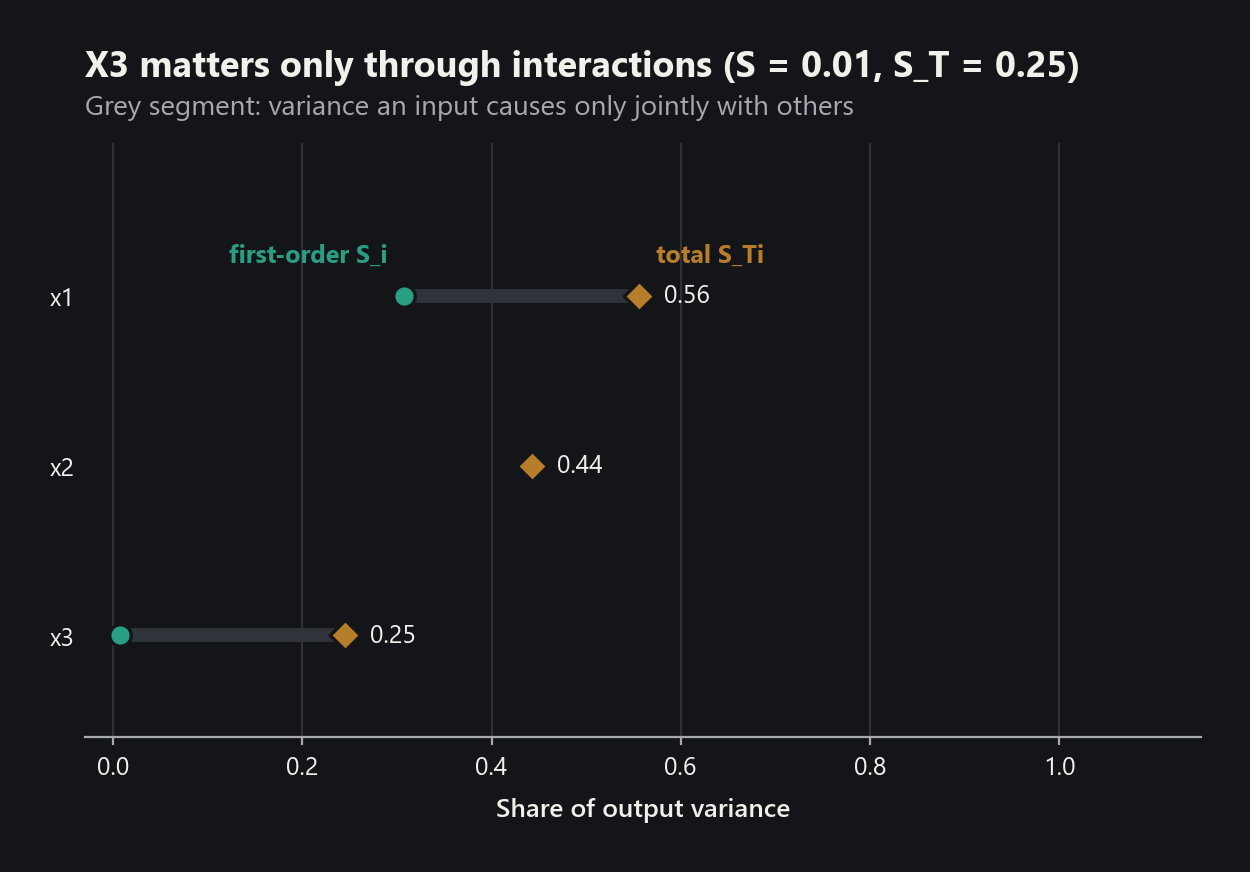
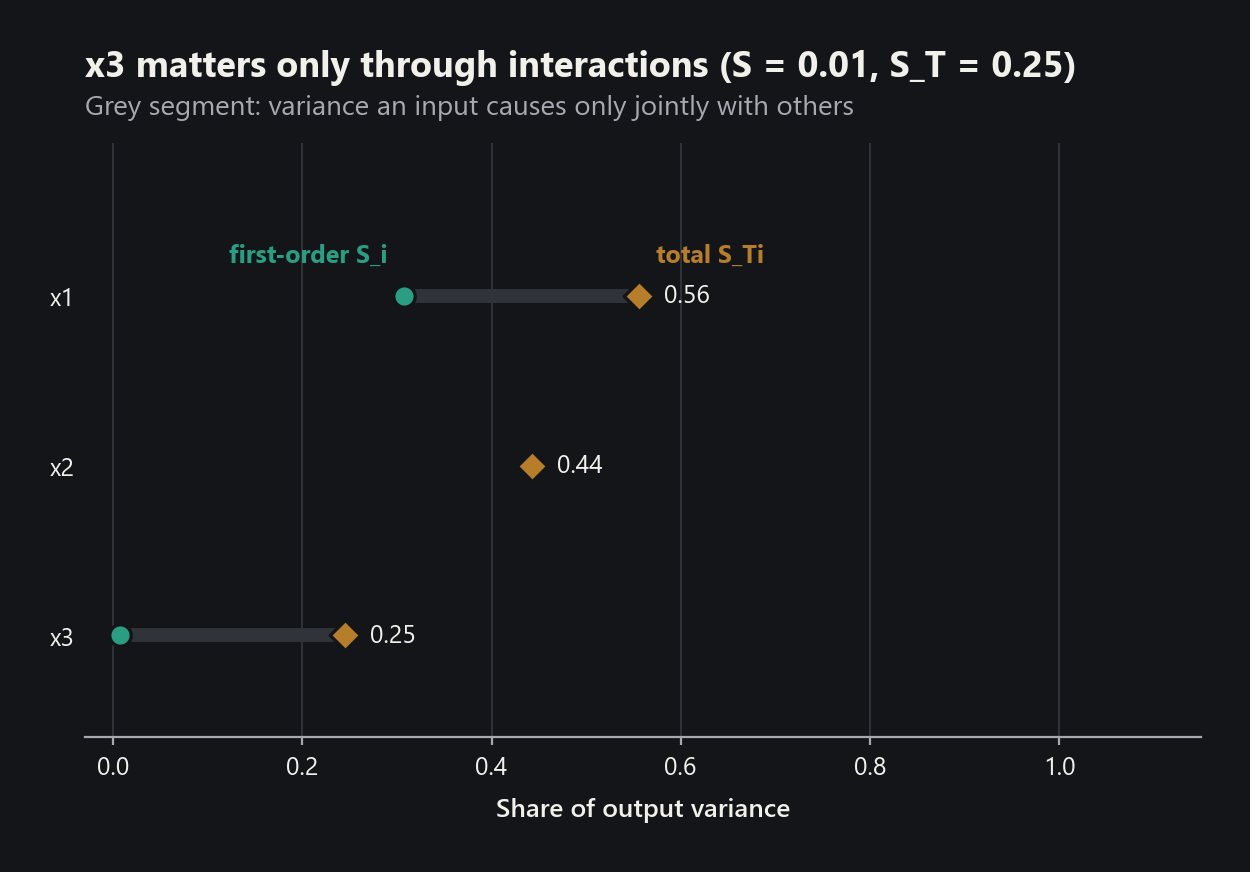
fix(visualization): keep identifier spelling in titles and say what the filter never measures
title_block capitalized the first letter of every title, so an assertion
that starts with an input name read 'X3 matters only through interactions'
above tick labels spelled x3. Identifiers (words with a digit or an
underscore) are no longer capitalized. The filtering figure's subtitle now
reads 'Velocity is never measured.' instead of a bare 'Not measured.'.
The Ishigami and filtering gallery pairs are regenerated (figure audit:
0 errors in both palettes) and the README caption follows the figure.

Changed region(s): [[0.0624, 0.0619, 0.8736, 0.0929]]

diff --git a/src/probstat/visualization/theme.py b/src/probstat/visualization/theme.py
@@ -820,13 +820,19 @@ def title_block(ax: Any, title: str, subtitle: str | None = None) -> None:
         ax: Target axes.
         title: Assertion stating what the chart shows.
         subtitle: One line naming the marks (not repeating axis titles).
+            The first letter of the title is capitalized unless the first word
+            is an identifier (it contains a digit or an underscore, such as an
+            input named ``x3`` or ``igniter_p``), which keeps the spelling the
+            axis labels use.
 
     References:
         [REF-MATPLOTLIB]. No equation is evaluated.
 
     """
     palette = active_palette()
-    title = title[:1].upper() + title[1:]
+    first_word = title.split(" ", 1)[0]
+    if not any(character.isdigit() or character == "_" for character in first_word):
+        title = title[:1].upper() + title[1:]
     ax.set_title(
         title,
         loc="left",

diff --git a/src/probstat/visualization/inference_plots.py b/src/probstat/visualization/inference_plots.py
@@ -287,7 +287,11 @@ def plot_filter_track(
     title_block(
         axes,
         f"The filter tracks {name} from noisy data{coverage}",
-        ("Dots: measurements. " if observations is not None else "Not measured. ")
+        (
+            "Dots: measurements. "
+            if observations is not None
+            else f"{name[:1].upper()}{name[1:]} is never measured. "
+        )
         + "Band: filtered 95% interval",
     )
     return axes

diff --git a/README.md b/README.md
@@ -167,7 +167,7 @@ exists in a light and a dark palette.
 | | |
 |---|---|
 | <picture><source media="(prefers-color-scheme: dark)" srcset="https://raw.githubusercontent.com/ayberkdt/Stats-Lab/main/docs/images/central-model-design-comparison-dark.png"><img alt="Spread of replicate means for Monte Carlo, Latin hypercube, Halton, and Sobol designs at 256 points" src="https://raw.githubusercontent.com/ayberkdt/Stats-Lab/main/docs/images/central-model-design-comparison.png"></picture> | <picture><source media="(prefers-color-scheme: dark)" srcset="https://raw.githubusercontent.com/ayberkdt/Stats-Lab/main/docs/images/ishigami-sobol-indices-dark.png"><img alt="First-order and total Sobol indices of the three Ishigami inputs" src="https://raw.githubusercontent.com/ayberkdt/Stats-Lab/main/docs/images/ishigami-sobol-indices.png"></picture> |
-| **Forward:** at 256 points, scrambled Sobol cuts the spread of the mean 15x, from 0.0583 to 0.00388. | **Sensitivity:** X3 has a first-order index of 0.01 but a total index of 0.25; it acts only through interactions. |
+| **Forward:** at 256 points, scrambled Sobol cuts the spread of the mean 15x, from 0.0583 to 0.00388. | **Sensitivity:** x3 has a first-order index of 0.01 but a total index of 0.25; it acts only through interactions. |
 | <picture><source media="(prefers-color-scheme: dark)" srcset="https://raw.githubusercontent.com/ayberkdt/Stats-Lab/main/docs/images/central-model-form-geometry-dark.png"><img alt="FORM design point on the limit-state curve in standard-normal space" src="https://raw.githubusercontent.com/ayberkdt/Stats-Lab/main/docs/images/central-model-form-geometry.png"></picture> | <picture><source media="(prefers-color-scheme: dark)" srcset="https://raw.githubusercontent.com/ayberkdt/Stats-Lab/main/docs/images/adaptive-reliability-design-points-dark.png"><img alt="Four design points of a four-branch limit state with importance samples" src="https://raw.githubusercontent.com/ayberkdt/Stats-Lab/main/docs/images/adaptive-reliability-design-points.png"></picture> |
 | **Reliability:** FORM finds the most likely failure point at β = 1.42 from the origin. | **Rare events:** four design points at β = 3.00 carry 4.0x the one-point FORM probability. |
 | <picture><source media="(prefers-color-scheme: dark)" srcset="https://raw.githubusercontent.com/ayberkdt/Stats-Lab/main/docs/images/central-model-loss-exceedance-dark.png"><img alt="Loss exceedance curve with VaR and CVaR at 95 and 99 percent" src="https://raw.githubusercontent.com/ayberkdt/Stats-Lab/main/docs/images/central-model-loss-exceedance.png"></picture> | <picture><source media="(prefers-color-scheme: dark)" srcset="https://raw.githubusercontent.com/ayberkdt/Stats-Lab/main/docs/images/extremes-return-levels-dark.png"><img alt="GEV return-level plot of 40 annual maxima with a profile-likelihood band" src="https://raw.githubusercontent.com/ayberkdt/Stats-Lab/main/docs/images/extremes-return-levels.png"></picture> |

diff --git a/docs/foundations/visual-language.md b/docs/foundations/visual-language.md
@@ -17,7 +17,7 @@ own figures through `probstat.visualization.theme`.
    `FITTED` dashes mark fitted or smoothed curves, `PROJECTED` dots mark
    extrapolation. A dash is never decoration.
 4. **Titles state the finding.** The title is an assertion computed from the
-   data ("X3 matters only through interactions"); a muted subtitle says what
+   data ("x3 matters only through interactions"); a muted subtitle says what
    the marks are. Labels sit at line ends instead of in a legend box.
 5. **Data ink dominates.** Horizontal hairline grid, no top or right spine, no
    shadows, glow, 3-D, or dual y-axes.
